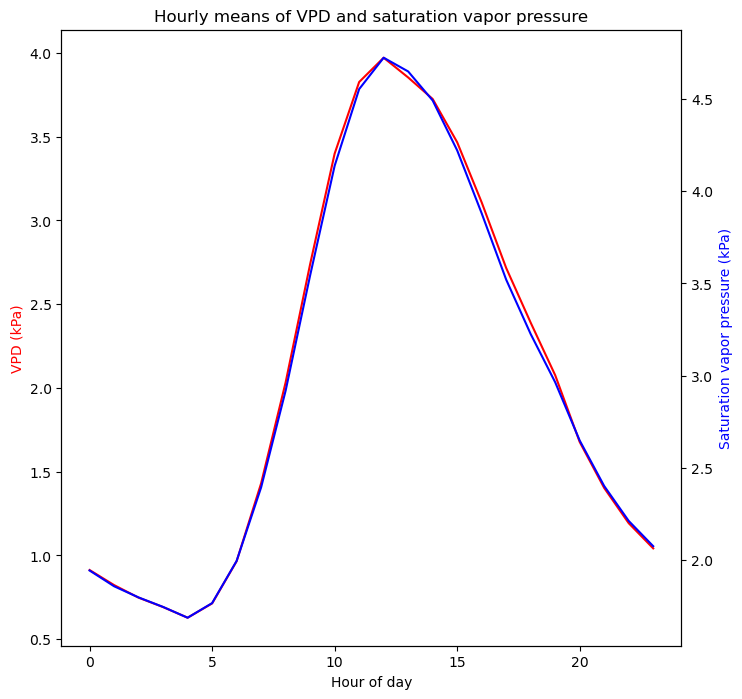
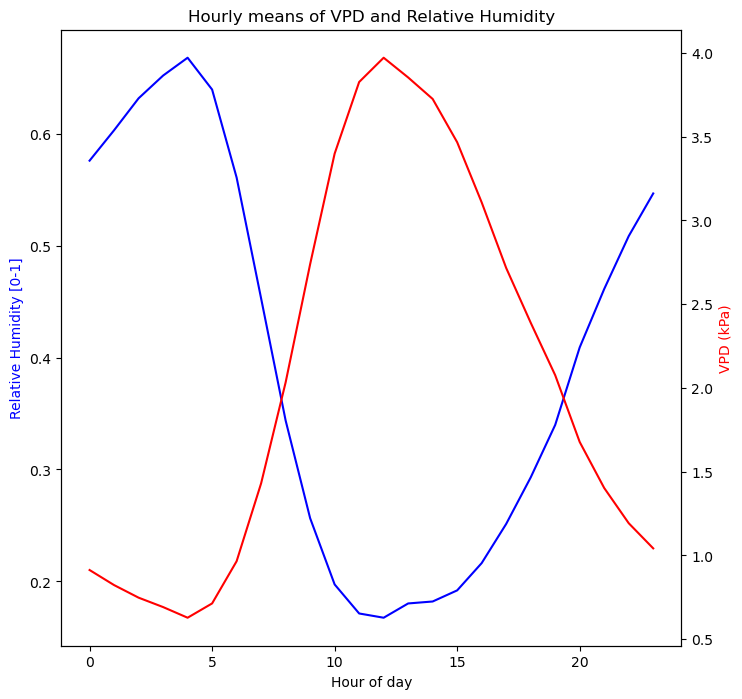
updated quarto render

diff --git a/docs/practice_sessions/answerkeys/practice_5-1_matplotlib_key.html b/docs/practice_sessions/answerkeys/practice_5-1_matplotlib_key.html
@@ -329,12 +329,18 @@ pre > code.sourceCode > span > a:first-child::before { text-decoration: underlin
 <p>The difference between saturation vapor pressure and ambient air pressure is called vapor pressure deficit, <span class="math inline">\textit{VPD}</span>. <span class="math inline">\textit{VPD}</span> can be calculated from saturation vapor pressure and relative humidity, <span class="math inline">h_r</span>, as follows: <span class="math display"> \textit{VPD} \, = \, e^*(T_a) \cdot (1 \, - \, h_r)</span> where <span class="math inline">h_r</span> is expressed as a fraction.</p>
 <ol type="1">
 <li>Calculate the vapor pressure deficit for the BSRN data.</li>
-<li>Calculate the mean hourly <span class="math inline">e^*(T_a)</span> and <span class="math inline">\textit{VPD}</span> over the entire month.</li>
-<li>Plot <span class="math inline">e^*(T_a)</span> and <span class="math inline">\textit{VPD}</span> as a function of time of day. (for extra python points, try plotting both variables on one plot using <a href="https://matplotlib.org/stable/gallery/subplots_axes_and_figures/two_scales.html">ax.twinx()</a>)</li>
+<li>Calculate the mean hourly <span class="math inline">RH</span> and <span class="math inline">\textit{VPD}</span> over the entire month.</li>
+<li>Plot <span class="math inline">RH</span> and <span class="math inline">\textit{VPD}</span> as a function of time of day. (for extra python points, try plotting both variables on one plot using <a href="https://matplotlib.org/stable/gallery/subplots_axes_and_figures/two_scales.html">ax.twinx()</a>)</li>
 <li>How does relative humidity vary throughout the day? Why?</li>
 <li>Compare your plot(s) to Figure 3-3 in Campbell and Norman (1998). How do the values of <span class="math inline">e^*(T_a)</span> and <span class="math inline">\textit{VPD}</span> for the BSRN station compare to those at constant vapor pressure in Figure 3-3?</li>
 </ol>
-<div class="cell" data-execution_count="5">
+<div class="quarto-figure quarto-figure-center">
+<figure class="figure">
+<p><img src="../assets/campbell_norman_fig3-3.png" class="img-fluid figure-img"></p>
+<figcaption class="figure-caption">cn</figcaption>
+</figure>
+</div>
+<div class="cell" data-execution_count="43">
 <details>
 <summary>Code</summary>
 <div class="sourceCode cell-code" id="cb9"><pre class="sourceCode python code-with-copy"><code class="sourceCode python"><span id="cb9-1"><a href="#cb9-1" aria-hidden="true" tabindex="-1"></a><span class="co"># Calulate VPD in kPa for bsrn data:</span></span>
@@ -347,21 +353,21 @@ pre > code.sourceCode > span > a:first-child::before { text-decoration: underlin
 <span id="cb9-8"><a href="#cb9-8" aria-hidden="true" tabindex="-1"></a>fig <span class="op">=</span> plt.figure(figsize<span class="op">=</span>(<span class="dv">8</span>,<span class="dv">8</span>))</span>
 <span id="cb9-9"><a href="#cb9-9" aria-hidden="true" tabindex="-1"></a>ax <span class="op">=</span> fig.add_subplot(<span class="dv">1</span>,<span class="dv">1</span>,<span class="dv">1</span>)</span>
 <span id="cb9-10"><a href="#cb9-10" aria-hidden="true" tabindex="-1"></a>ax2 <span class="op">=</span> ax.twinx()</span>
-<span id="cb9-11"><a href="#cb9-11" aria-hidden="true" tabindex="-1"></a>ax.plot(bsrn_hourly.index,bsrn_hourly.VPD_kPa,color<span class="op">=</span><span class="st">'red'</span>)</span>
-<span id="cb9-12"><a href="#cb9-12" aria-hidden="true" tabindex="-1"></a>ax2.plot(bsrn_hourly.index,bsrn_hourly.e_sat_kPa,color<span class="op">=</span><span class="st">'blue'</span>)</span>
+<span id="cb9-11"><a href="#cb9-11" aria-hidden="true" tabindex="-1"></a>ax.plot(bsrn_hourly.index,bsrn_hourly.RH<span class="op">/</span><span class="dv">100</span>,color<span class="op">=</span><span class="st">'blue'</span>)</span>
+<span id="cb9-12"><a href="#cb9-12" aria-hidden="true" tabindex="-1"></a>ax2.plot(bsrn_hourly.index,bsrn_hourly.VPD_kPa,color<span class="op">=</span><span class="st">'red'</span>)</span>
 <span id="cb9-13"><a href="#cb9-13" aria-hidden="true" tabindex="-1"></a><span class="co"># set xlabel</span></span>
 <span id="cb9-14"><a href="#cb9-14" aria-hidden="true" tabindex="-1"></a>ax.set_xlabel(<span class="st">'Hour of day'</span>)</span>
 <span id="cb9-15"><a href="#cb9-15" aria-hidden="true" tabindex="-1"></a><span class="co"># set ylabel</span></span>
-<span id="cb9-16"><a href="#cb9-16" aria-hidden="true" tabindex="-1"></a>ax.set_ylabel(<span class="st">'VPD (kPa)'</span>,color<span class="op">=</span><span class="st">'red'</span>)</span>
-<span id="cb9-17"><a href="#cb9-17" aria-hidden="true" tabindex="-1"></a>ax2.set_ylabel(<span class="st">'Saturation vapor pressure (kPa)'</span>,color<span class="op">=</span><span class="st">'blue'</span>)</span>
+<span id="cb9-16"><a href="#cb9-16" aria-hidden="true" tabindex="-1"></a>ax2.set_ylabel(<span class="st">'VPD (kPa)'</span>,color<span class="op">=</span><span class="st">'red'</span>)</span>
+<span id="cb9-17"><a href="#cb9-17" aria-hidden="true" tabindex="-1"></a>ax.set_ylabel(<span class="st">'Relative Humidity [0-1]'</span>,color<span class="op">=</span><span class="st">'blue'</span>)</span>
 <span id="cb9-18"><a href="#cb9-18" aria-hidden="true" tabindex="-1"></a><span class="co"># set title</span></span>
-<span id="cb9-19"><a href="#cb9-19" aria-hidden="true" tabindex="-1"></a>ax.set_title(<span class="st">'Hourly means of VPD and saturation vapor pressure'</span>)</span>
+<span id="cb9-19"><a href="#cb9-19" aria-hidden="true" tabindex="-1"></a>ax.set_title(<span class="st">'Hourly means of VPD and Relative Humidity'</span>)</span>
 <span id="cb9-20"><a href="#cb9-20" aria-hidden="true" tabindex="-1"></a><span class="co"># show the figure</span></span>
 <span id="cb9-21"><a href="#cb9-21" aria-hidden="true" tabindex="-1"></a></span>
 <span id="cb9-22"><a href="#cb9-22" aria-hidden="true" tabindex="-1"></a></span></code><button title="Copy to Clipboard" class="code-copy-button"><i class="bi"></i></button></pre></div>
 </details>
-<div class="cell-output cell-output-display" data-execution_count="5">
-<pre><code>Text(0.5, 1.0, 'Hourly means of VPD and saturation vapor pressure')</code></pre>
+<div class="cell-output cell-output-display" data-execution_count="43">
+<pre><code>Text(0.5, 1.0, 'Hourly means of VPD and Relative Humidity')</code></pre>
 </div>
 <div class="cell-output cell-output-display">
 <p><img src="practice_5-1_matplotlib_key_files/figure-html/cell-9-output-2.png" class="img-fluid"></p>

diff --git a/docs/practice_sessions/practice_5-1_matplotlib.html b/docs/practice_sessions/practice_5-1_matplotlib.html
@@ -197,19 +197,31 @@ pre > code.sourceCode > span > a:first-child::before { text-decoration: underlin
 <ol type="1">
 <li>Calculate ( $ e^*(T_a) $ ) in kPa for all temperatures in <code>bsrn</code>.</li>
 <li>Plot temperature vs.&nbsp;saturation vapor pressure for the BSRN station. Be sure to format your plot appropriately and include axis labels, a title, and a legend, if necessary.</li>
-<li>Compare your plot to Figure 3-1 in Campbell and Norman (1998). Do they look more or less the same?</li>
+<li>Compare your plot to Figure 3-1 in Campbell and Norman (1998), included below. Do they look more or less the same?</li>
 </ol>
+<div class="quarto-figure quarto-figure-center">
+<figure class="figure">
+<p><img src="./assets/campbell_norman_fig3-1.png" class="img-fluid figure-img"></p>
+<figcaption class="figure-caption">cn</figcaption>
+</figure>
+</div>
 </section>
 <section id="practice-5." class="level2">
 <h2 class="anchored" data-anchor-id="practice-5.">📚 <b> Practice 5. </b></h2>
 <p>The difference between saturation vapor pressure and ambient air pressure is called vapor pressure deficit, <span class="math inline">\textit{VPD}</span>. <span class="math inline">\textit{VPD}</span> can be calculated from saturation vapor pressure and relative humidity, <span class="math inline">h_r</span>, as follows: <span class="math display"> \textit{VPD} \, = \, e^*(T_a) \cdot (1 \, - \, h_r)</span> where <span class="math inline">h_r</span> is expressed as a fraction.</p>
 <ol type="1">
 <li>Calculate the vapor pressure deficit for the BSRN data.</li>
-<li>Calculate the mean hourly <span class="math inline">e^*(T_a)</span> and <span class="math inline">\textit{VPD}</span> over the entire month.</li>
-<li>Plot <span class="math inline">e^*(T_a)</span> and <span class="math inline">\textit{VPD}</span> as a function of time of day. (for extra python points, try plotting both variables on one plot using <a href="https://matplotlib.org/stable/gallery/subplots_axes_and_figures/two_scales.html">ax.twinx()</a>)</li>
+<li>Calculate the mean hourly <span class="math inline">RH</span> and <span class="math inline">\textit{VPD}</span> over the entire month.</li>
+<li>Plot <span class="math inline">RH</span> and <span class="math inline">\textit{VPD}</span> as a function of time of day. (for extra python points, try plotting both variables on one plot using <a href="https://matplotlib.org/stable/gallery/subplots_axes_and_figures/two_scales.html">ax.twinx()</a>)</li>
 <li>How does relative humidity vary throughout the day? Why?</li>
 <li>Compare your plot(s) to Figure 3-3 in Campbell and Norman (1998). How do the values of <span class="math inline">e^*(T_a)</span> and <span class="math inline">\textit{VPD}</span> for the BSRN station compare to those at constant vapor pressure in Figure 3-3?</li>
 </ol>
+<div class="quarto-figure quarto-figure-center">
+<figure class="figure">
+<p><img src="./assets/campbell_norman_fig3-3.png" class="img-fluid figure-img"></p>
+<figcaption class="figure-caption">cn</figcaption>
+</figure>
+</div>
 <hr style="border-top: 1px solid gray; margin-top: 24px; margin-bottom: 1px">
 
 

diff --git a/docs/interactive_sessions/2-1_control_flow_statements.html b/docs/interactive_sessions/2-1_control_flow_statements.html
@@ -153,7 +153,7 @@ pre > code.sourceCode > span > a:first-child::before { text-decoration: underlin
 <p><a href="../interactive_sessions/1-2_lists.html">⬅ Previous Session</a> | <a href="../index.html">🏠 Course Home</a> | <a href="../interactive_sessions/2-2_structured_data.html">➡ Next Session</a> |</p>
 <div class="quarto-figure quarto-figure-center">
 <figure class="figure">
-<p><img src="2-1_control_flow_statements_files/figure-html/d44bb6cd-1-control.jpeg" class="img-fluid figure-img"></p>
+<p><img src="2-1_control_flow_statements_files/figure-html/c40d4937-1-control.jpeg" class="img-fluid figure-img"></p>
 <figcaption class="figure-caption">control.jpeg</figcaption>
 </figure>
 </div>

diff --git a/docs/interactive_sessions/1-2_Lists.html b/docs/interactive_sessions/1-2_Lists.html
@@ -148,7 +148,7 @@ pre > code.sourceCode > span > a:first-child::before { text-decoration: underlin
 <p><a href="../interactive_sessions/1-1_variables.html">⬅ Previous Session</a> | <a href="../index.html">🏠 Course Home</a> | <a href="../interactive_sessions/2-1_control_flow_statements.html">➡ Next Session</a> |</p>
 <div class="quarto-figure quarto-figure-center">
 <figure class="figure">
-<p><img src="1-2_lists_files/figure-html/96485d93-1-list-2.jpg" class="img-fluid figure-img"></p>
+<p><img src="1-2_lists_files/figure-html/74cd015a-1-list-2.jpg" class="img-fluid figure-img"></p>
 <figcaption class="figure-caption">list-2.jpg</figcaption>
 </figure>
 </div>

diff --git a/docs/interactive_sessions/99_hello_world.html b/docs/interactive_sessions/99_hello_world.html
@@ -150,7 +150,7 @@ pre > code.sourceCode > span > a:first-child::before { text-decoration: underlin
 
 <div class="quarto-figure quarto-figure-center">
 <figure class="figure">
-<p><img src="99_hello_world_files/figure-html/b5fd3c38-1-Hello_mac-2.jpg" class="img-fluid figure-img"></p>
+<p><img src="99_hello_world_files/figure-html/9a07017e-1-Hello_mac-2.jpg" class="img-fluid figure-img"></p>
 <figcaption class="figure-caption">Hello_mac-2.jpg</figcaption>
 </figure>
 </div>
